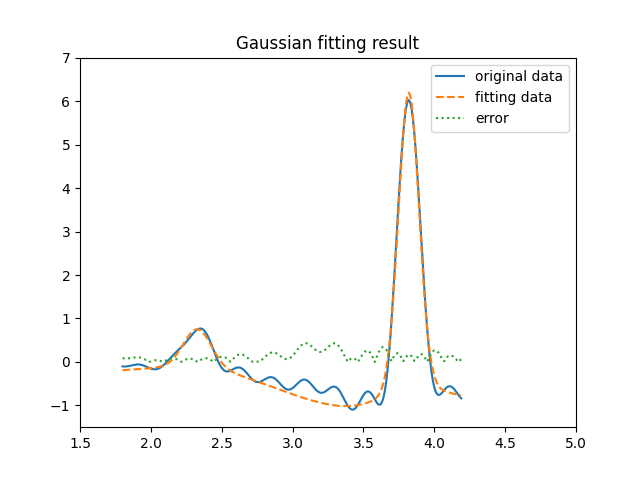
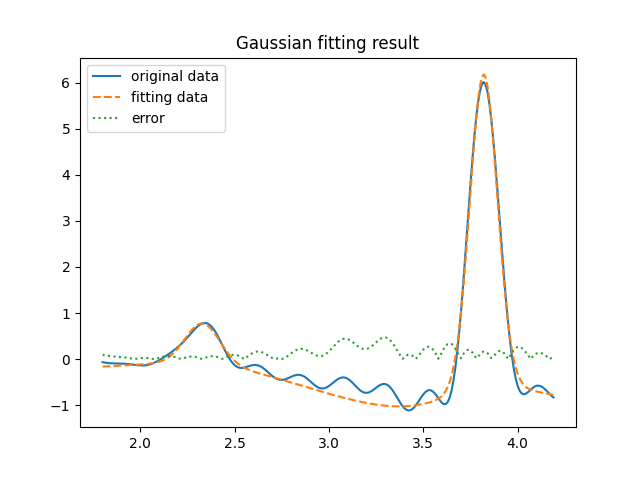
change some parameter

diff --git a/method.py b/method.py
@@ -391,7 +391,7 @@ def getCsv(dicT,i):
         # 'peak{}'.format(i+1).to_csv("'peak{}'.format(i+1).csv",index=False)
         # "peak{}.csv".format(i+1)
         # peaks['peak{}'.format(i+1)].to_csv("'peak{}'.format(i+1).csv",index=False)
-        peaks['peak{}'.format(i+1)].to_csv("peak{}.csv".format(i+1),index=False)
+        peaks['peak{}'.format(i+1)].to_csv("./peakFiles/peak{}.csv".format(i+1),index=False)
     return peaks
 
 # peak1 = getCsv(dicT,3)

diff --git a/main.py b/main.py
@@ -86,7 +86,7 @@ def main():
             pars.append(set_pars)
         set_all_pars.append(set_pars)
     # print(set_all_pars)
-# [3],[1.8,4.2],[[2.4,0.038,0.3],[3.8,0.07,1.13]]
+# [3],[1.8,4.2],[[2.35,0.038,0.3],[3.8,0.07,1.13]]
 
 #plot gaussian, lorentzian, PseudoVoigt fitting result
     gaussian_fitting_plot(two_theta,intensity[number],interval,set_all_pars)
